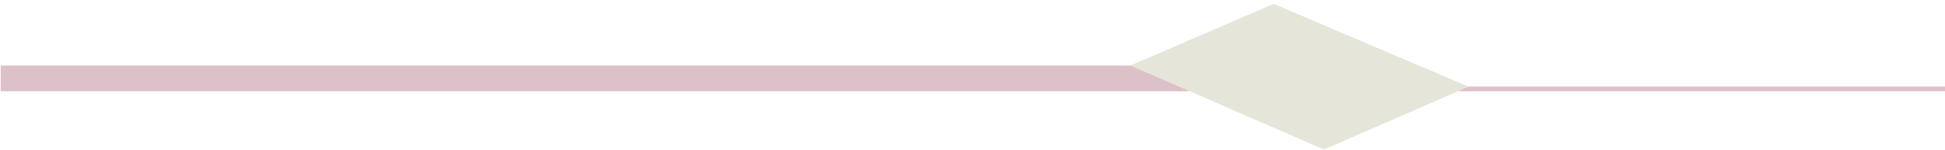
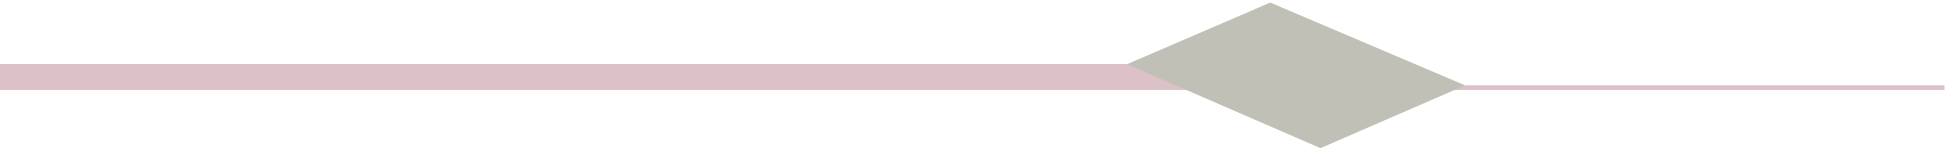
add services background image and new divider, responsive tweaks

Changed region(s): [[0.0, 0.0267, 1.0, 0.9867]]

diff --git a/css/style.css b/css/style.css
@@ -232,17 +232,16 @@ main {
 
 }
  
-#philosophy, 
-#services, 
+#testimonials,
+#philosophy,
+#services,
 #meet-kim {
     position: relative;
-    padding: 5%;
 }
 
 #testimonials {
-    position: relative;
     height: inherit;
-    background-image: url(../images/intuitive-bookkeeper-background.jpg);
+    background-image: url(../images/intuitive-bookkeeper-testimonials.jpg);
     background-repeat: no-repeat;
     background-size: cover;
     width: 100%;
@@ -330,7 +329,7 @@ main {
 
 #philosophy {
     justify-content: flex-end;
-    background-color: black;
+    padding: 5%;
 }
 
 #philosophy div {
@@ -341,26 +340,25 @@ main {
 /* Services Section */
 
 .divider-3 {
-    bottom: -6.5%;
-    right: 0;
+    top: -6.75%;
 }
 
 #services {
-    justify-content: flex-start;
-    /* height: inherit;
-    background-image: url(../images/intuitive-bookkeeper-background.jpg);
+    justify-content: flex-start; 
+    position: relative;
+    height: inherit;
+    background-image: url(../images/intuitive-bookkeeper-services.jpg);
     background-repeat: no-repeat;
-    background-size: contain;
+    background-size: cover;
     width: 100%;
-    padding-top: 52.8%; */
+    padding-top: 66.68%;
 }
 
 #services > div {
-    /* position: absolute; */
-    position: relative;
+    position: absolute;
     width: 50%;
-    top: 0;
-    left: 0;
+    top: 20%;
+    left: 6%;
 }
 
 .service-options {
@@ -390,14 +388,23 @@ main {
     flex: 3;
 }
 
+.service-options a:link {color: #432333; text-decoration: none;} 
+.service-options a:visited {color: #432333;}  
+.service-options a:hover {color: #925c79; }  
+.service-options a:active {color: #925c79;} 
+
+
 /* Meet Kim Section */
 
 #meet-kim {
     flex-flow: row;
+    padding: 5%;
 }
 
 #meet-kim div {
     flex: 1;
+    width: 96%;
+    margin: 0 2%;
 }
 
 #meet-kim div h3 {
@@ -584,7 +591,7 @@ body {
         padding: 1% 1% 0;
         line-height: 1em;
         font-size: 3em;
-        color: #432333;
+        color: #97a0b0;
         float: right;
         text-decoration: none;
     }
@@ -684,11 +691,12 @@ body {
 /* Services Section */
 
     #services > div {
-        position: relative;
-        width: 90%;
-        margin: 5%;
-        top: 0;
-        left: 0;
+        width: 70%;
+        top: 11%;
+    }
+
+    .service-options ul li {
+        font-size: 1.15em;
     }
 
 /* Meet Kim Section */
@@ -714,19 +722,43 @@ body {
  
     body {
         font-size: 85%;
-    }          
+    }   
+    
+/* Services Section */
+
+    #services > div {
+        width: 70%;
+        top: 10%;
+    }
+
+    .service-options ul li {
+        font-size: 1.1em;
+    }    
 }
 
 /*** Up to 640px ***/
 @media only screen and (max-width: 40em) {
     
     body {
-        font-size: 85%;
+        font-size: 80%;
     } 
     
+/* Testimonial Section */    
+
     .testimonial-container p, .client-name {
         font-size: 1.25em;
     }
+    
+/* Services Section */
+
+    #services > div {
+        width: 70%;
+        top: 10%;
+    }
+
+    .service-options ul li {
+        font-size: 1em;
+    }           
 }
 
 /*** Up to 560px ***/
@@ -750,6 +782,14 @@ body {
     .testimonial-container p, .client-name {
         font-size: 1.2em;
     }
+    
+/* Services Section */
+
+    #services > div {
+        width: 90%;
+        top: 0%;
+        left: 5%;
+    }   
 
 /* Footer */ 
 
@@ -762,38 +802,19 @@ body {
 @media only screen and (max-width: 30em) {
     
     body {
-        font-size: 80%;
+        font-size: 70%;
     } 
     
     .testimonial-container p, .client-name {
-        font-size: 1em;
+        font-size: 1.1em;
     }
-    
-/* Services Section */
-
-    .service-options ul {
-        flex-flow: column;
-    }
-
-    .service-options ul li {
-        margin: 1em ;
-    }
-
-    .service-options ul li:nth-child(1) {
-        flex: 1;
-        padding: 1em 1.5em;
-    }
-
-    .service-options ul li:nth-child(2) {
-        flex: 1;
-    }      
 }
 
 /*** Up to 400px ***/
 @media only screen and (max-width: 25em) {
 
     body {
-        font-size: 75%;
+        font-size: 70%;
     }    
 }
 

diff --git a/index.html b/index.html
@@ -48,7 +48,7 @@
             </a>
             
             <ul>
-                <li><a href="#">Our Philosophy</a></li>
+                <li><a href="#">My Philosophy</a></li>
                 <li><a href="#">Services</a></li>
                 <li><a href="#">Meet Kim</a></li>
                 <li><a href="#">Contact Us</a></li>
@@ -104,47 +104,46 @@
         <section id="philosophy">
             
             <div>
-                <h3>Our Philosophy</h3>
+                <h3>My Philosophy</h3>
 
                 <p>Lorem ipsum dolor sit amet, consectetuer adipiscing elit, sed diam nonummy nibh euismod tincidunt ut Lorem ipsum dolor sit amet, consectetuer adipiscing elit, sed diam nonummy nibh euismod tincidunt ut laoreet dolore magna aliquam erat voluptate.</p>
             </div> 
             
-            <img class="divider divider-3" src="images/intuitive-bookkeeper-divider-3.png">
-            
         </section>
         
         <section id="services">
-            
-            <div>
+                
+                <img class="divider divider-3" src="images/intuitive-bookkeeper-divider-3.png">
+                <div>
                 <h3>Services</h3>
                 
                 <div class="service-options">
                     <ul>
-                        <li>Packages</li>
+                        <li><a href="#">Packages</a></li>
 
                         <li>Lorem ipsum dolor sit amet, consectetuer adipiscing elit.</li>
                     </ul>
                     
                     <ul>
-                        <li>a La Carte</li>
+                        <li><a href="#">a La Cart&#233;</a></li>
 
                         <li>Sed diam nonummy nibh euismod tincidunt ut laoreet dolore magna aliquam erat.</li>
                     </ul>
                     
                     <ul>
-                        <li>Recurring</li>
+                        <li><a href="#">Recurring</a></li>
 
                         <li>Lorem ipsum dolor sit amet, consectetuer adipiscing elit.</li>
                     </ul>
                     
                     <ul>
-                        <li>Learn More</li>
+                        <li><a href="#">Learn More</a></li>
 
                         <li>Sed diam nonummy nibh euismod tincidunt ut laoreet dolore magna aliquam erat.</li>
                     </ul>
                 </div>
                     
-            </div> 
+            </div>
        
         </section>
         
